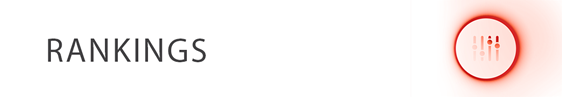
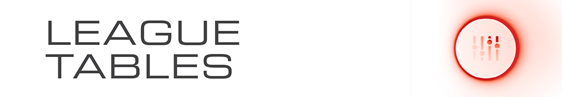
Latest Updates

diff --git a/js/app.js b/js/app.js
@@ -78,6 +78,34 @@ function loadPoints(uid) {
     });
 }
 
+function loadLandPoints(uid) {
+    $.ajax({
+        type       : "POST",
+        url        : formurl,
+        crossDomain: true,
+        beforeSend : function() {$.mobile.loading('show')},
+        complete   : function() {$.mobile.loading('hide')},
+        data       : "tipe=getLandPoints&uid="+uid,
+        dataType   : 'json',
+        success    : function(response) {
+            var gaugeImage = response["gaugeImage"];
+            var pointsPre = response["pointsPre"];
+            var pointsNow = response["pointsNow"];
+            
+            $('#gaugeImage').empty();
+            $('#gaugeImage').append(gaugeImage); 
+            $('#pointsPre').empty();
+            $('#pointsPre').append(pointsPre);
+            $('#pointsNow').empty();
+            $('#pointsNow').append(pointsNow);
+        },
+        error      : function() {
+            console.error("error");
+            alert('Unable to connect to server, please try again...');                  
+        }
+    });
+}
+
 function loadRankings(uid,div) {
     $.ajax({
         type       : "POST",
@@ -252,7 +280,7 @@ function uploadPhoto(imageURI) {
 
     var options = new FileUploadOptions();
     options.fileKey = "file";
-    imagefilename = $('#user_name').val() + "_" + $('#user_name').val() + Number(new Date()) + ".jpg";
+    imagefilename = $('#user_name').val() + "_" + $('#user_surname').val() + Number(new Date()) + ".jpg";
     options.fileName = imagefilename;
     options.mimeType = "image/jpg";
 
@@ -294,12 +322,72 @@ $(document).on("pageshow", "#rewards", function(){
     loadPoints(localStorage.getItem('log_uid'));
 });
 
+$(document).on("pageshow", "#landrewards", function(){ 
+    loadLandPoints(localStorage.getItem('log_uid'));
+});
+
 $(document).on("pageshow", "#jag-ranking", function(){     
     loadRankings(localStorage.getItem('log_uid'), 1);
 });
 
 $(document).on("pageshow", "#land-ranking", function(){ 
     loadRankings(localStorage.getItem('log_uid'), 2);
+});
+
+$(document).on("pageshow", "#uefa", function(){ 
+    $('#uefaContent').empty();
+    
+    $.ajax({
+        type       : "POST",
+        url        : formurl,
+        crossDomain: true,
+        beforeSend : function() {$.mobile.loading('show')},
+        complete   : function() {$.mobile.loading('hide')},
+        data       : "tipe=getUefa",
+        dataType   : 'json',
+        success    : function(response) {
+            var newsOut = response["news"];
+            $('#uefaContent').append(newsOut); 
+            
+            $("#uefaContent").find('a').each(function() {
+                var aUrl = $(this).attr('href');
+                $(this).attr('href', '#');
+                $(this).attr('onclick',"loadURL('"+aUrl+"','_system');");
+            });
+        },
+        error      : function() {
+            console.error("error");
+            alert('Unable to connect to server, please try again...');                  
+        }
+    });
+});
+
+$(document).on("pageshow", "#qualiRules", function(){ 
+    $('#ruleContent').empty();
+    
+    $.ajax({
+        type       : "POST",
+        url        : formurl,
+        crossDomain: true,
+        beforeSend : function() {$.mobile.loading('show')},
+        complete   : function() {$.mobile.loading('hide')},
+        data       : "tipe=getRules",
+        dataType   : 'json',
+        success    : function(response) {
+            var newsOut = response["news"];
+            $('#ruleContent').append(newsOut); 
+            
+            $("#ruleContent").find('a').each(function() {
+                var aUrl = $(this).attr('href');
+                $(this).attr('href', '#');
+                $(this).attr('onclick',"loadURL('"+aUrl+"','_system');");
+            });
+        },
+        error      : function() {
+            console.error("error");
+            alert('Unable to connect to server, please try again...');                  
+        }
+    });
 });
 
 $(document).on("pageshow", "#profile", function(){ 
@@ -375,6 +463,12 @@ $(document).on("pageshow", "#article", function() {
             $('#next-but').attr("href", next);
             $('#jag-but').attr("id", campBut);
             $('#land-but').attr("id", newsBut);
+            
+            $("#articleOutput").find('a').each(function() {
+                var aUrl = $(this).attr('href');
+                $(this).attr('href', '#');
+                $(this).attr('onclick',"loadURL('"+aUrl+"','_system');");
+            });
         },
         error      : function() {
             console.error("error");

diff --git a/uefa.html b/uefa.html
@@ -2,34 +2,30 @@
 <html>
     <head></head>
     <body>
-    <div data-role="page" id="rewards">
+    <div data-role="page" id="uefa">
         <div data-role="header" id="header">
             <img src="images/logo.png" class="resposive">
         </div><!-- /header -->
         <div role="main" class="ui-content" id="content">
             <div id="content-title">
                 <div class="ui-grid-a">
-                    <div class="ui-block-a" id="content-head" style="width:65%"><h2>My Rewards</h2></div>
+                    <div class="ui-block-a" id="content-head" style="width:65%"><h2>UEFA</h2></div>
                     <div class="ui-block-b" id="logoutDiv" style="width:35%"><a href="#popupMenu" data-rel="popup" data-transition="slideup" class="my-log" id="logoutA">Options</a></div>
                 </div>
             </div>
             <div id="content-body-main">
-                <div class="ui-grid-a" style="margin: -30px -30px 0 -30px; border-bottom: 1px solid #d32627;">
-                    <div class="ui-block-a"><a href="rewards.html" id="jag-but-act" data-role="none">JAGUAR</a></div>
-                    <div class="ui-block-b"><a href="landrewards.html" id="land-but" data-role="none">LAND ROVER</a></div>
+                <div id="uefaContent">
+                    
                 </div>
-                <div id="gaugeImage"></div>
-                <div id="pointsNow" style="width:100%; text-align:center;"></div>
-                <div id="pointsPre" style="width:100%; text-align:center;"></div>
             </div>
         </div><!-- /content -->
         <div data-role="footer" id="footer" data-position="fixed">
             <div class="ui-grid-d">
                 <div class="ui-block-a"><a href="dashboard.html"><img src="images/homeNav.png" class="resposive"></a></div>
-                <div class="ui-block-b"><a href="rewards.html"><img src="images/rewardsNavA.png" class="resposive"></a></div>
+                <div class="ui-block-b"><a href="rewards.html"><img src="images/rewardsNav.png" class="resposive"></a></div>
                 <div class="ui-block-c"><a href="ranking.html"><img src="images/rankingNav.png" class="resposive"></a></div>
                 <div class="ui-block-d"><a href="whatsnew.html"><img src="images/newNav.png" class="resposive"></a></div>
-                <div class="ui-block-e"><a href="uefa.html"><img src="images/uefaNav.png" class="resposive"></a></div>
+                <div class="ui-block-e"><a href="uefa.html"><img src="images/uefaNavA.png" class="resposive"></a></div>
             </div>
         </div><!-- /footer -->
         <div data-role="popup" id="popupMenu">

diff --git a/rules.html b/rules.html
@@ -2,7 +2,7 @@
 <html>
     <head></head>
     <body>
-    <div data-role="page" id="rewards">
+    <div data-role="page" id="qualiRules">
         <div data-role="header" id="header">
             <img src="images/logo.png" class="resposive">
         </div><!-- /header -->
@@ -14,19 +14,15 @@
                 </div>
             </div>
             <div id="content-body-main">
-                <div class="ui-grid-a" style="margin: -30px -30px 0 -30px; border-bottom: 1px solid #d32627;">
-                    <div class="ui-block-a"><a href="rewards.html" id="jag-but-act" data-role="none">JAGUAR</a></div>
-                    <div class="ui-block-b"><a href="landrewards.html" id="land-but" data-role="none">LAND ROVER</a></div>
+                <div id="ruleContent">
+                    
                 </div>
-                <div id="gaugeImage"></div>
-                <div id="pointsNow" style="width:100%; text-align:center;"></div>
-                <div id="pointsPre" style="width:100%; text-align:center;"></div>
             </div>
         </div><!-- /content -->
         <div data-role="footer" id="footer" data-position="fixed">
             <div class="ui-grid-d">
                 <div class="ui-block-a"><a href="dashboard.html"><img src="images/homeNav.png" class="resposive"></a></div>
-                <div class="ui-block-b"><a href="rewards.html"><img src="images/rewardsNavA.png" class="resposive"></a></div>
+                <div class="ui-block-b"><a href="rewards.html"><img src="images/rewardsNav.png" class="resposive"></a></div>
                 <div class="ui-block-c"><a href="ranking.html"><img src="images/rankingNav.png" class="resposive"></a></div>
                 <div class="ui-block-d"><a href="whatsnew.html"><img src="images/newNav.png" class="resposive"></a></div>
                 <div class="ui-block-e"><a href="uefa.html"><img src="images/uefaNav.png" class="resposive"></a></div>

diff --git a/dashboard.html b/dashboard.html
@@ -20,7 +20,9 @@
                 <p></p>
                 <a href="whatsnew.html"><img src="images/wahtsNewBut.png" class="resposive" style="border: 1px solid #d32627;"></a>
                 <p></p>
-                <a href="#" onclick="loadURL('http://www.uefa.com/uefachampionsleague/season=2015/standings/index.html','_system');"><img src="images/uefaBut.png" class="resposive" style="border: 1px solid #d32627;"></a>
+                <a href="uefa.html"><img src="images/uefaBut.png" class="resposive" style="border: 1px solid #d32627;"></a>
+                <p></p>
+                <a href="rules.html"><img src="images/rulesBut.png" class="resposive" style="border: 1px solid #d32627;"></a>
             </div>
         </div><!-- /content -->
         <div data-role="footer" id="footer" data-position="fixed">
@@ -29,7 +31,7 @@
                 <div class="ui-block-b"><a href="rewards.html"><img src="images/rewardsNav.png" class="resposive"></a></div>
                 <div class="ui-block-c"><a href="ranking.html"><img src="images/rankingNav.png" class="resposive"></a></div>
                 <div class="ui-block-d"><a href="whatsnew.html"><img src="images/newNav.png" class="resposive"></a></div>
-                <div class="ui-block-e"><a href="#" onclick="loadURL('http://www.uefa.com/uefachampionsleague/season=2015/standings/index.html','_system');"><img src="images/uefaNav.png" class="resposive"></a></div>
+                <div class="ui-block-e"><a href="uefa.html"><img src="images/uefaNav.png" class="resposive"></a></div>
             </div>
         </div><!-- /footer -->
         <div data-role="popup" id="popupMenu">

diff --git a/landrankings.html b/landrankings.html
@@ -9,7 +9,7 @@
         <div role="main" class="ui-content" id="content">
             <div id="content-title">
                 <div class="ui-grid-a">
-                    <div class="ui-block-a" id="content-head" style="width:65%"><h2>Rankings</h2></div>
+                    <div class="ui-block-a" id="content-head" style="width:65%"><h2>League Table</h2></div>
                     <div class="ui-block-b" id="logoutDiv" style="width:35%"><a href="#popupMenu" data-rel="popup" data-transition="slideup" class="my-log" id="logoutA">Options</a></div>
                 </div>
             </div>
@@ -29,7 +29,7 @@
                 <div class="ui-block-b"><a href="rewards.html"><img src="images/rewardsNav.png" class="resposive"></a></div>
                 <div class="ui-block-c"><a href="ranking.html"><img src="images/rankingNavA.png" class="resposive"></a></div>
                 <div class="ui-block-d"><a href="whatsnew.html"><img src="images/newNav.png" class="resposive"></a></div>
-                <div class="ui-block-e"><a href="#" onclick="loadURL('http://www.uefa.com/uefachampionsleague/season=2015/standings/index.html','_system');"><img src="images/uefaNav.png" class="resposive"></a></div>
+                <div class="ui-block-e"><a href="uefa.html"><img src="images/uefaNav.png" class="resposive"></a></div>
             </div>
         </div><!-- /footer -->
         <div data-role="popup" id="popupMenu">

diff --git a/ranking.html b/ranking.html
@@ -9,7 +9,7 @@
         <div role="main" class="ui-content" id="content">
             <div id="content-title">
                 <div class="ui-grid-a">
-                    <div class="ui-block-a" id="content-head" style="width:65%"><h2>Rankings</h2></div>
+                    <div class="ui-block-a" id="content-head" style="width:65%"><h2>League Table</h2></div>
                     <div class="ui-block-b" id="logoutDiv" style="width:35%"><a href="#popupMenu" data-rel="popup" data-transition="slideup" class="my-log" id="logoutA">Options</a></div>
                 </div>
             </div>
@@ -29,7 +29,7 @@
                 <div class="ui-block-b"><a href="rewards.html"><img src="images/rewardsNav.png" class="resposive"></a></div>
                 <div class="ui-block-c"><a href="ranking.html"><img src="images/rankingNavA.png" class="resposive"></a></div>
                 <div class="ui-block-d"><a href="whatsnew.html"><img src="images/newNav.png" class="resposive"></a></div>
-                <div class="ui-block-e"><a href="#" onclick="loadURL('http://www.uefa.com/uefachampionsleague/season=2015/standings/index.html','_system');"><img src="images/uefaNav.png" class="resposive"></a></div>
+                <div class="ui-block-e"><a href="uefa.html"><img src="images/uefaNav.png" class="resposive"></a></div>
             </div>
         </div><!-- /footer -->
         <div data-role="popup" id="popupMenu">

diff --git a/landrewards.html b/landrewards.html
@@ -2,7 +2,7 @@
 <html>
     <head></head>
     <body>
-    <div data-role="page" id="rewards">
+    <div data-role="page" id="landrewards">
         <div data-role="header" id="header">
             <img src="images/logo.png" class="resposive">
         </div><!-- /header -->
@@ -15,8 +15,8 @@
             </div>
             <div id="content-body-main">
                 <div class="ui-grid-a" style="margin: -30px -30px 0 -30px; border-bottom: 1px solid #d32627;">
-                    <div class="ui-block-a"><a href="rewards.html" id="jag-but-act" data-role="none">JAGUAR</a></div>
-                    <div class="ui-block-b"><a href="landrewards.html" id="land-but" data-role="none">LAND ROVER</a></div>
+                    <div class="ui-block-a"><a href="rewards.html" id="jag-but" data-role="none">JAGUAR</a></div>
+                    <div class="ui-block-b"><a href="landrewards.html" id="land-but-act" data-role="none">LAND ROVER</a></div>
                 </div>
                 <div id="gaugeImage"></div>
                 <div id="pointsNow" style="width:100%; text-align:center;"></div>

diff --git a/campaigns.html b/campaigns.html
@@ -29,7 +29,7 @@
                 <div class="ui-block-b"><a href="rewards.html"><img src="images/rewardsNav.png" class="resposive"></a></div>
                 <div class="ui-block-c"><a href="ranking.html"><img src="images/rankingNav.png" class="resposive"></a></div>
                 <div class="ui-block-d"><a href="whatsnew.html"><img src="images/newNavA.png" class="resposive"></a></div>
-                <div class="ui-block-e"><a href="#" onclick="loadURL('http://www.uefa.com/uefachampionsleague/season=2015/standings/index.html','_system');"><img src="images/uefaNav.png" class="resposive"></a></div>
+                <div class="ui-block-e"><a href="uefa.html"><img src="images/uefaNav.png" class="resposive"></a></div>
             </div>
         </div><!-- /footer -->
         <div data-role="popup" id="popupMenu">

diff --git a/news.html b/news.html
@@ -34,7 +34,7 @@
                 <div class="ui-block-b"><a href="rewards.html"><img src="images/rewardsNav.png" class="resposive"></a></div>
                 <div class="ui-block-c"><a href="ranking.html"><img src="images/rankingNav.png" class="resposive"></a></div>
                 <div class="ui-block-d"><a href="whatsnew.html"><img src="images/newNavA.png" class="resposive"></a></div>
-                <div class="ui-block-e"><a href="#" onclick="loadURL('http://www.uefa.com/uefachampionsleague/season=2015/standings/index.html','_system');"><img src="images/uefaNav.png" class="resposive"></a></div>
+                <div class="ui-block-e"><a href="uefa.html"><img src="images/uefaNav.png" class="resposive"></a></div>
             </div>
         </div><!-- /footer -->
         <div data-role="popup" id="popupMenu">

diff --git a/profile.html b/profile.html
@@ -30,7 +30,7 @@
                 <div class="ui-block-b"><a href="rewards.html"><img src="images/rewardsNav.png" class="resposive"></a></div>
                 <div class="ui-block-c"><a href="ranking.html"><img src="images/rankingNavA.png" class="resposive"></a></div>
                 <div class="ui-block-d"><a href="whatsnew.html"><img src="images/newNav.png" class="resposive"></a></div>
-                <div class="ui-block-e"><a href="#" onclick="loadURL('http://www.uefa.com/uefachampionsleague/season=2015/standings/index.html','_system');"><img src="images/uefaNav.png" class="resposive"></a></div>
+                <div class="ui-block-e"><a href="uefa.html"><img src="images/uefaNav.png" class="resposive"></a></div>
             </div>
         </div><!-- /footer -->
         <div data-role="popup" id="popupMenu">

diff --git a/whatsnew.html b/whatsnew.html
@@ -29,7 +29,7 @@
                 <div class="ui-block-b"><a href="rewards.html"><img src="images/rewardsNav.png" class="resposive"></a></div>
                 <div class="ui-block-c"><a href="ranking.html"><img src="images/rankingNav.png" class="resposive"></a></div>
                 <div class="ui-block-d"><a href="whatsnew.html"><img src="images/newNavA.png" class="resposive"></a></div>
-                <div class="ui-block-e"><a href="#" onclick="loadURL('http://www.uefa.com/uefachampionsleague/season=2015/standings/index.html','_system');"><img src="images/uefaNav.png" class="resposive"></a></div>
+                <div class="ui-block-e"><a href="uefa.html"><img src="images/uefaNav.png" class="resposive"></a></div>
             </div>
         </div><!-- /footer -->
         <div data-role="popup" id="popupMenu">

diff --git a/update.html b/update.html
@@ -51,7 +51,7 @@
                 <div class="ui-block-b"><a href="rewards.html"><img src="images/rewardsNav.png" class="resposive"></a></div>
                 <div class="ui-block-c"><a href="ranking.html"><img src="images/rankingNav.png" class="resposive"></a></div>
                 <div class="ui-block-d"><a href="whatsnew.html"><img src="images/newNav.png" class="resposive"></a></div>
-                <div class="ui-block-e"><a href="#" onclick="loadURL('http://www.uefa.com/uefachampionsleague/season=2015/standings/index.html','_system');"><img src="images/uefaNav.png" class="resposive"></a></div>
+                <div class="ui-block-e"><a href="uefa.html"><img src="images/uefaNav.png" class="resposive"></a></div>
             </div>
         </div><!-- /footer -->
         <div data-role="popup" id="popupMenu">
